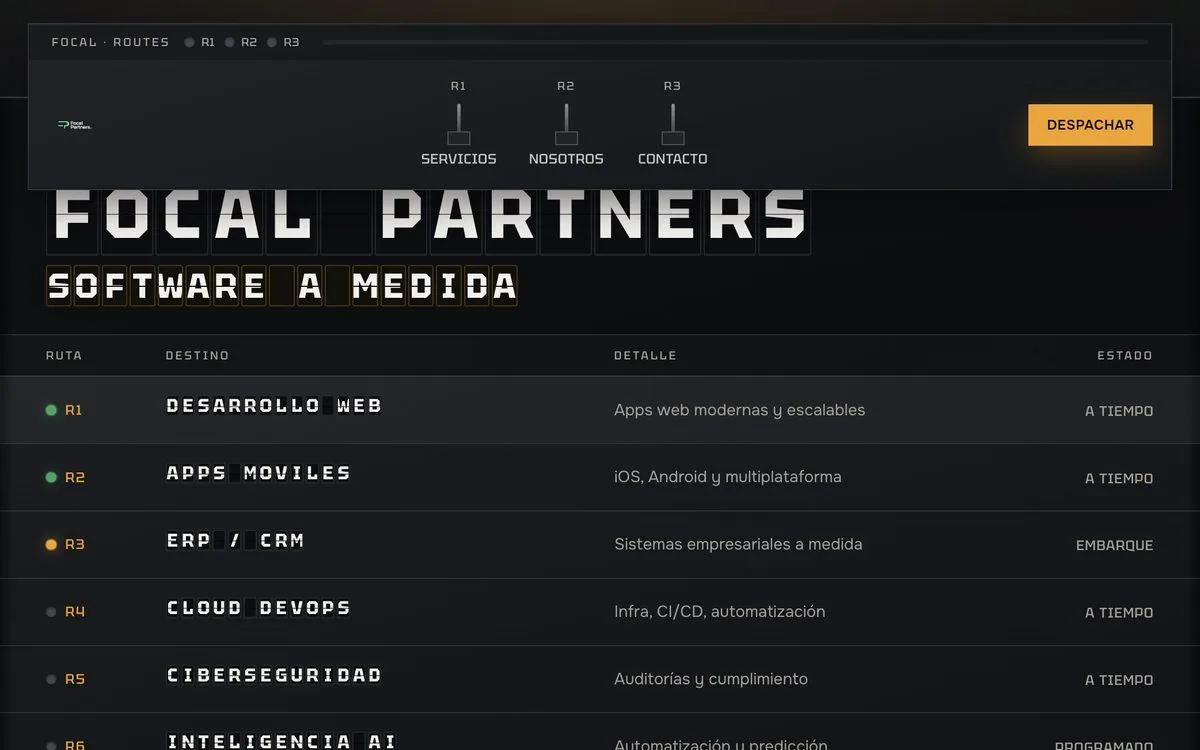
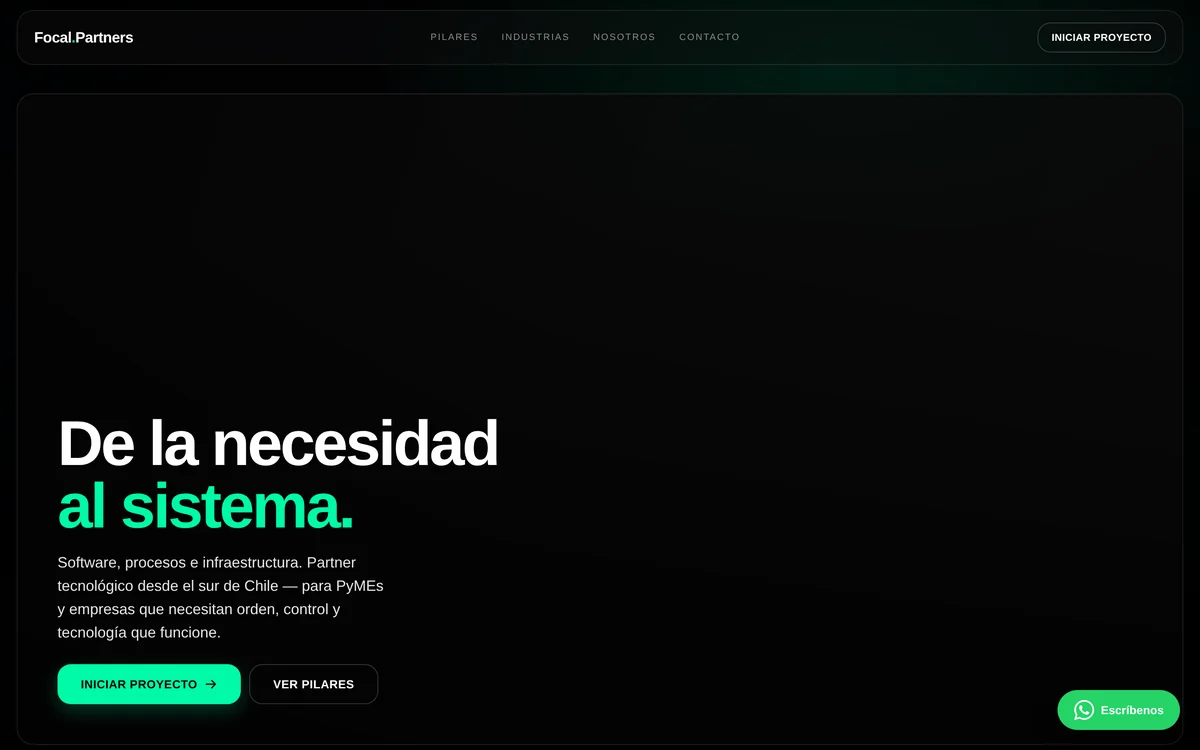
Use real screenshots for Lazoo, Focal Partners and the notary site
Lazoo now shows the v2 platform landing and links to it, with the stack
trimmed to what that repo uses. Focal Partners and the Notaría portal show
their actual home pages instead of a design mock and a hero photo, and
the Focal description matches the live site.

Claude-Session: https://claude.ai/code/session_01M8sbFJ4bCkhHCSKRd6EPJ7

diff --git a/src/content/site.es.ts b/src/content/site.es.ts
@@ -59,13 +59,13 @@ export const es: SiteContent = {
     {
       id: "lazoo",
       name: "Lazoo",
-      kind: "Producto propio · SaaS + móvil",
-      domain: "lazoo.cl",
-      url: "https://www.lazoo.cl",
-      description: "Fidelización digital para negocios locales: tarjetas de sellos que viven en Apple Wallet y Google Wallet, sin instalar ninguna app. Panel web y una app de escaneo para el equipo.",
-      stack: ["Next.js", "Prisma", "PostgreSQL", "Wallet APIs", "Expo"],
+      kind: "Producto propio · SaaS",
+      domain: "lazoo-platform.vercel.app",
+      url: "https://lazoo-platform.vercel.app",
+      description: "Fidelización digital para negocios locales: tarjetas de sellos que viven en Apple Wallet y Google Wallet, sin instalar ninguna app. Los negocios gestionan clientes, segmentos, campañas y métricas desde un panel web.",
+      stack: ["Next.js", "Prisma", "PostgreSQL", "Wallet APIs"],
       image: "lazoo.webp",
-      imageAlt: "Gráfica de la app de escaneo de Lazoo",
+      imageAlt: "Landing de Lazoo: tarjeta de sellos en Wallet, sin app",
     },
     {
       id: "progarage",
@@ -87,7 +87,7 @@ export const es: SiteContent = {
       description: "Portal público para una notaría y conservador de bienes raíces: servicios, trámites e información de jurisdicción para la ciudadanía.",
       stack: ["React 19", "Vite", "Node.js", "PostgreSQL"],
       image: "notaria.webp",
-      imageAlt: "Portal de la Notaría Santa Bárbara",
+      imageAlt: "Portada del sitio de la Notaría y Conservador de Santa Bárbara",
     },
     {
       id: "focal",
@@ -95,10 +95,10 @@ export const es: SiteContent = {
       kind: "Mi empresa · Sitio web",
       domain: "focalpartners.cl",
       url: "https://www.focalpartners.cl",
-      description: "Sitio de mi estudio de software en Los Ángeles: un concepto animado de panel de salidas, con asistente de proyectos y contacto por WhatsApp.",
+      description: "Sitio de mi estudio de software en Los Ángeles: software, procesos e infraestructura para PyMEs del sur de Chile, con asistente de proyectos y contacto por WhatsApp.",
       stack: ["React", "TypeScript", "Tailwind", "Motion"],
       image: "focal.webp",
-      imageAlt: "Portada del sitio de Focal Partners",
+      imageAlt: "Sitio de Focal Partners: de la necesidad al sistema",
     },
     {
       id: "minera",

diff --git a/src/content/site.en.ts b/src/content/site.en.ts
@@ -59,13 +59,13 @@ export const en: SiteContent = {
     {
       id: "lazoo",
       name: "Lazoo",
-      kind: "Own product · SaaS + mobile",
-      domain: "lazoo.cl",
-      url: "https://www.lazoo.cl",
-      description: "Digital loyalty for local businesses: stamp cards that live in Apple Wallet and Google Wallet, with no app to install. Web dashboard plus a scanner app for staff.",
-      stack: ["Next.js", "Prisma", "PostgreSQL", "Wallet APIs", "Expo"],
+      kind: "Own product · SaaS",
+      domain: "lazoo-platform.vercel.app",
+      url: "https://lazoo-platform.vercel.app",
+      description: "Digital loyalty for local businesses: stamp cards that live in Apple Wallet and Google Wallet, with no app to install. Businesses manage customers, segments, campaigns and metrics from a web dashboard.",
+      stack: ["Next.js", "Prisma", "PostgreSQL", "Wallet APIs"],
       image: "lazoo.webp",
-      imageAlt: "Lazoo scanner app graphic",
+      imageAlt: "Lazoo landing: stamp card in Wallet, no app",
     },
     {
       id: "progarage",
@@ -87,7 +87,7 @@ export const en: SiteContent = {
       description: "Public portal for a notary office and real-estate registry: services, procedures and jurisdiction information for citizens.",
       stack: ["React 19", "Vite", "Node.js", "PostgreSQL"],
       image: "notaria.webp",
-      imageAlt: "Notaría Santa Bárbara portal",
+      imageAlt: "Notaría y Conservador de Santa Bárbara website home",
     },
     {
       id: "focal",
@@ -95,10 +95,10 @@ export const en: SiteContent = {
       kind: "My company · Website",
       domain: "focalpartners.cl",
       url: "https://www.focalpartners.cl",
-      description: "Website for my software studio in Los Ángeles: an animated departure-board concept with a project wizard and WhatsApp contact.",
+      description: "Website for my software studio in Los Ángeles: software, processes and infrastructure for SMEs in southern Chile, with a project wizard and WhatsApp contact.",
       stack: ["React", "TypeScript", "Tailwind", "Motion"],
       image: "focal.webp",
-      imageAlt: "Focal Partners website hero",
+      imageAlt: "Focal Partners website: from the need to the system",
     },
     {
       id: "minera",
